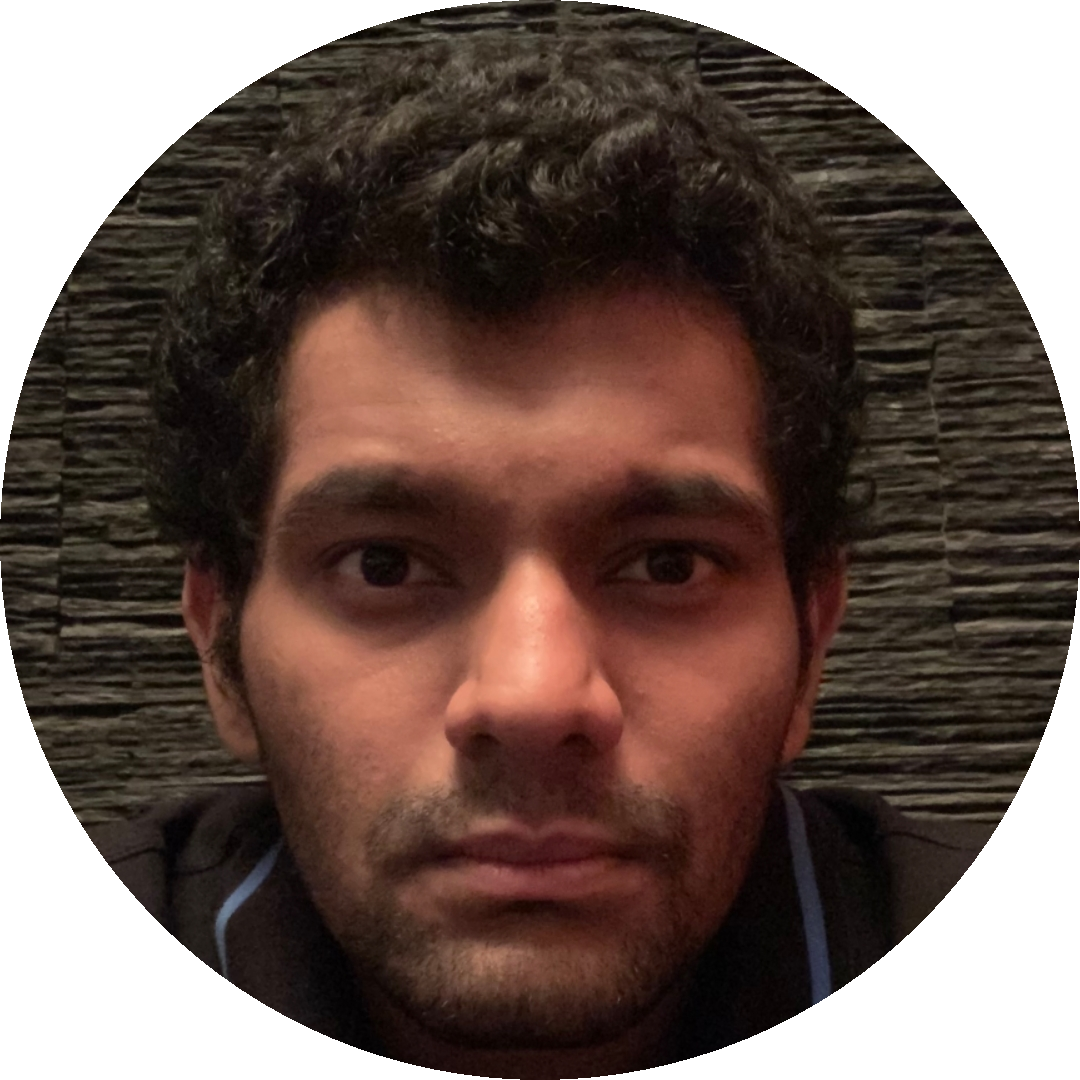
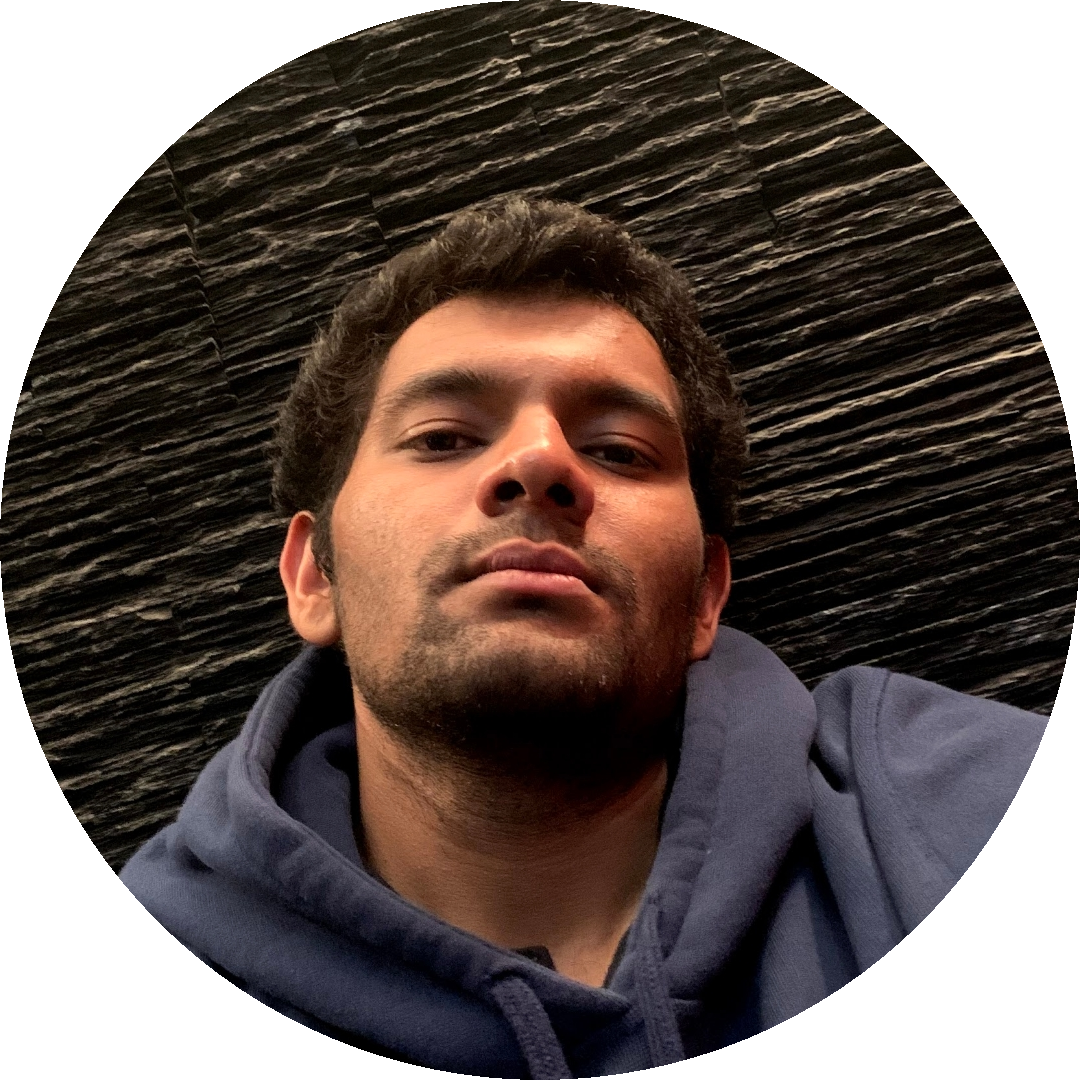
assets folder and content updates

diff --git a/lightindex.html b/lightindex.html
@@ -47,7 +47,7 @@
                 <ul class="vertical-menu scrollspy">
                     <li class="active"><a href="#home"><i class="icon-home"></i>Home</a></li>
                     <li><a href="#about"><i class="icon-user-following"></i>About MDC</a></li>
-                    <li><a href="#services"><i class="icon-briefcase"></i>Fluent in</a></li>
+                    <li><a href="#services"><i class="icon-briefcase"></i>Skills</a></li>
                     <li><a href="#works"><i class="icon-layers"></i>Projects and Workshops</a></li>
                     <li><a href="#blog"><i class="icon-note"></i>Blog</a></li>
                     <li><a href="#contact"><i class="icon-bubbles"></i>Contact</a></li>
@@ -113,77 +113,8 @@
         
                         <div class="col-md-3">
                             <div class="text-center text-md-left">
-                                <!--photo of member -->
-                                <img src="assets/briha.png" alt="brihadeesh" />
-                            </div>
-                            <div class="spacer d-md-none d-lg-none" data-height="30"></div>
-                        </div>
-        
-                        <div class="col-md-9 triangle-left-md triangle-top-sm">
-                            <div class="rounded bg-white shadow-dark padding-30">
-                                <div class="row">
-                                    <div class="col-md-6">
-                                        <!-- about text -->
-                                        <p>Brihadeesh R K, Co-Lead, a 3rd Semester ISE Student from M S Ramaiah Institute of Technology, Bangalore. <br>
-                                            Brihadeesh is a JavaScript and .NET Developer with Certification in: C#, ASP.NET, mySQL, JavaScript Frameworks Such as: 
-                                            Angular, Node, React, React Native and Angular-Redux. <br>
-                                            His Interests Include: Python, Machine Learning and App Development
-                                        </p>
-                                       
-                                        <div class="spacer d-md-none d-lg-none" data-height="30"></div>
-                                    </div>
-                                    <div class="col-md-6">
-                                        <!-- skill item -->
-                                        <div class="skill-item">
-                                            <div class="skill-info clearfix">
-                                                <h4 class="float-left mb-3 mt-0">Web-Development</h4>
-                                                <span class="float-right">80%</span>
-                                            </div>
-                                            <div class="progress">
-                                                <div class="progress-bar data-background" role="progressbar" aria-valuemin="0" aria-valuemax="100" aria-valuenow="80" data-color="#0078D4">
-                                                </div>
-                                            </div>
-                                            <div class="spacer" data-height="20"></div>
-                                        </div>
-        
-                                        <!-- skill item -->
-                                        <div class="skill-item">
-                                            <div class="skill-info clearfix">
-                                                <h4 class="float-left mb-3 mt-0">Mobile and Desktop Applications</h4>
-                                                <span class="float-right">75%</span>
-                                            </div>
-                                            <div class="progress">
-                                                <div class="progress-bar data-background" role="progressbar" aria-valuemin="0" aria-valuemax="100" aria-valuenow="75" data-color="#FF4C60">
-                                                </div>
-                                            </div>
-                                            <div class="spacer" data-height="20"></div>
-                                        </div>
-        
-                                        <!-- skill item -->
-                                        <div class="skill-item">
-                                            <div class="skill-info clearfix">
-                                                <h4 class="float-left mb-3 mt-0">Data Structures</h4>
-                                                <span class="float-right">85%</span>
-                                            </div>
-                                            <div class="progress">
-                                                <div class="progress-bar data-background" role="progressbar" aria-valuemin="0" aria-valuemax="100" aria-valuenow="85" data-color="#6C6CE5">
-                                                </div>
-                                            </div>
-                                        </div>
-                                    </div>
-                                </div>
-                            </div>
-                        </div>
-        
-                    </div>
-                    <div class="spacer" data-height="30"></div>
-                    
-                    <div class="row">
-        
-                        <div class="col-md-3">
-                            <div class="text-center text-md-left">
                                 <!-- avatar image -->
-                                <img src="https://via.placeholder.com/150x150" alt="Bolby" />
+                                <img src="" alt="anushka" />
                             </div>
                             <div class="spacer d-md-none d-lg-none" data-height="30"></div>
                         </div>
@@ -193,9 +124,8 @@
                                 <div class="row">
                                     <div class="col-md-6">
                                         <!-- about text -->
-                                        <p>we are msdc or write some shit like that.
-                                            have one box like this for each core member and ask the core member for their skills
-                                            and ask them how familiar they are and give the percentage accordingly
+                                        <p>Anushka Mittal, Lead, a 3rd Semester ISE Student from M S Ramaiah Institute of Technology, Bangalore. <br>
+                                            
                                         </p>
                                        
                                         <div class="spacer d-md-none d-lg-none" data-height="30"></div>
@@ -250,8 +180,8 @@
         
                         <div class="col-md-3">
                             <div class="text-center text-md-left">
-                                <!-- avatar image -->
-                                <img src="https://via.placeholder.com/150x150" alt="Bolby" />
+                                <!--photo of member -->
+                                <img src="assets/briha.png" alt="brihadeesh" />
                             </div>
                             <div class="spacer d-md-none d-lg-none" data-height="30"></div>
                         </div>
@@ -261,9 +191,76 @@
                                 <div class="row">
                                     <div class="col-md-6">
                                         <!-- about text -->
-                                        <p>we are msdc or write some shit like that.
-                                            have one box like this for each core member and ask the core member for their skills
-                                            and ask them how familiar they are and give the percentage accordingly
+                                        <p>Brihadeesh R K, Core, a 3rd Semester ISE Student from M S Ramaiah Institute of Technology, Bangalore. <br>
+                                            Brihadeesh is a JavaScript and .NET Developer with Certification in: C#, ASP.NET, mySQL, JavaScript Frameworks Such as: 
+                                            Angular, Node, React, React Native and Angular-Redux. <br>
+                                            His Interests Include: Python, Machine Learning and App Development
+                                        </p>
+                                       
+                                        <div class="spacer d-md-none d-lg-none" data-height="30"></div>
+                                    </div>
+                                    <div class="col-md-6">
+                                        <!-- skill item -->
+                                        <div class="skill-item">
+                                            <div class="skill-info clearfix">
+                                                <h4 class="float-left mb-3 mt-0">Web-Development</h4>
+                                                <span class="float-right">80%</span>
+                                            </div>
+                                            <div class="progress">
+                                                <div class="progress-bar data-background" role="progressbar" aria-valuemin="0" aria-valuemax="100" aria-valuenow="80" data-color="#0078D4">
+                                                </div>
+                                            </div>
+                                            <div class="spacer" data-height="20"></div>
+                                        </div>
+        
+                                        <!-- skill item -->
+                                        <div class="skill-item">
+                                            <div class="skill-info clearfix">
+                                                <h4 class="float-left mb-3 mt-0">Mobile and Desktop Applications</h4>
+                                                <span class="float-right">75%</span>
+                                            </div>
+                                            <div class="progress">
+                                                <div class="progress-bar data-background" role="progressbar" aria-valuemin="0" aria-valuemax="100" aria-valuenow="75" data-color="#FF4C60">
+                                                </div>
+                                            </div>
+                                            <div class="spacer" data-height="20"></div>
+                                        </div>
+        
+                                        <!-- skill item -->
+                                        <div class="skill-item">
+                                            <div class="skill-info clearfix">
+                                                <h4 class="float-left mb-3 mt-0">Data Structures</h4>
+                                                <span class="float-right">85%</span>
+                                            </div>
+                                            <div class="progress">
+                                                <div class="progress-bar data-background" role="progressbar" aria-valuemin="0" aria-valuemax="100" aria-valuenow="85" data-color="#6C6CE5">
+                                                </div>
+                                            </div>
+                                        </div>
+                                    </div>
+                                </div>
+                            </div>
+                        </div>
+        
+                    </div>
+                    <div class="spacer" data-height="30"></div>
+
+                    <div class="row">
+        
+                        <div class="col-md-3">
+                            <div class="text-center text-md-left">
+                                <!-- avatar image -->
+                                <img src="" alt="jitesh" />
+                            </div>
+                            <div class="spacer d-md-none d-lg-none" data-height="30"></div>
+                        </div>
+        
+                        <div class="col-md-9 triangle-left-md triangle-top-sm">
+                            <div class="rounded bg-white shadow-dark padding-30">
+                                <div class="row">
+                                    <div class="col-md-6">
+                                        <!-- about text -->
+                                        <p>Jitesh V Kamnani, Core, a 3rd Semester ISE Student from M S Ramaiah Institute of Technology, Bangalore. <br>
                                         </p>
                                        
                                         <div class="spacer d-md-none d-lg-none" data-height="30"></div>
@@ -319,7 +316,7 @@
                         <div class="col-md-3">
                             <div class="text-center text-md-left">
                                 <!-- avatar image -->
-                                <img src="https://via.placeholder.com/150x150" alt="Bolby" />
+                                <img src="" alt="dhrithi" />
                             </div>
                             <div class="spacer d-md-none d-lg-none" data-height="30"></div>
                         </div>
@@ -329,9 +326,7 @@
                                 <div class="row">
                                     <div class="col-md-6">
                                         <!-- about text -->
-                                        <p>we are msdc or write some shit like that.
-                                            have one box like this for each core member and ask the core member for their skills
-                                            and ask them how familiar they are and give the percentage accordingly
+                                        <p>Dhrithi Pai, Core, is a 3rd Semester ISE Student from M S Ramaiah Institute of Technology, Bangalore.
                                         </p>
                                        
                                         <div class="spacer d-md-none d-lg-none" data-height="30"></div>
@@ -387,7 +382,7 @@
                         <div class="col-md-3">
                             <div class="text-center text-md-left">
                                 <!-- avatar image -->
-                                <img src="https://via.placeholder.com/150x150" alt="Bolby" />
+                                <img src="assets/benny.png" alt="benny" />
                             </div>
                             <div class="spacer d-md-none d-lg-none" data-height="30"></div>
                         </div>
@@ -397,9 +392,10 @@
                                 <div class="row">
                                     <div class="col-md-6">
                                         <!-- about text -->
-                                        <p>we are msdc or write some shit like that.
-                                            have one box like this for each core member and ask the core member for their skills
-                                            and ask them how familiar they are and give the percentage accordingly
+                                        <p>Benny Nandha Dharshan G, Core, is a 3rd Semester ISE Student from M S Ramaiah Institute of Technology, Bangalore.
+                                            Benny is skilled in Art and Photography with Experience in Suite Applications such as Premiere Pro, Photoshop, Indesign
+                                             and Illustrator. 
+                                             Some of Benny's Skills are: Designing, Prototype Development, Mobile and Web Application Development.
                                         </p>
                                        
                                         <div class="spacer d-md-none d-lg-none" data-height="30"></div>
@@ -408,7 +404,7 @@
                                         <!-- skill item -->
                                         <div class="skill-item">
                                             <div class="skill-info clearfix">
-                                                <h4 class="float-left mb-3 mt-0">Development</h4>
+                                                <h4 class="float-left mb-3 mt-0">Suite Application Development</h4>
                                                 <span class="float-right">85%</span>
                                             </div>
                                             <div class="progress">
@@ -421,11 +417,11 @@
                                         <!-- skill item -->
                                         <div class="skill-item">
                                             <div class="skill-info clearfix">
-                                                <h4 class="float-left mb-3 mt-0">UI/UX design</h4>
-                                                <span class="float-right">95%</span>
+                                                <h4 class="float-left mb-3 mt-0">Design and Prototype Development</h4>
+                                                <span class="float-right">90%</span>
                                             </div>
                                             <div class="progress">
-                                                <div class="progress-bar data-background" role="progressbar" aria-valuemin="0" aria-valuemax="100" aria-valuenow="95" data-color="#FF4C60">
+                                                <div class="progress-bar data-background" role="progressbar" aria-valuemin="0" aria-valuemax="100" aria-valuenow="90" data-color="#FF4C60">
                                                 </div>
                                             </div>
                                             <div class="spacer" data-height="20"></div>
@@ -434,11 +430,11 @@
                                         <!-- skill item -->
                                         <div class="skill-item">
                                             <div class="skill-info clearfix">
-                                                <h4 class="float-left mb-3 mt-0">Photography</h4>
-                                                <span class="float-right">70%</span>
+                                                <h4 class="float-left mb-3 mt-0">Mobile and Web Application Development</h4>
+                                                <span class="float-right">65%</span>
                                             </div>
                                             <div class="progress">
-                                                <div class="progress-bar data-background" role="progressbar" aria-valuemin="0" aria-valuemax="100" aria-valuenow="70" data-color="#6C6CE5">
+                                                <div class="progress-bar data-background" role="progressbar" aria-valuemin="0" aria-valuemax="100" aria-valuenow="65" data-color="#6C6CE5">
                                                 </div>
                                             </div>
                                         </div>
@@ -500,7 +496,7 @@
 
             <section id="services">
                 <div class="container">
-                    <h2 class="section-title wow fadeInUp">Services</h2>
+                    <h2 class="section-title wow fadeInUp">What We're Good At</h2>
 
                     <div class="spacer" data-height="60"></div>
                 
@@ -510,12 +506,32 @@
                             <!-- specialty box -->
                             <div class="service-box rounded data-background padding-30 text-center text-light shadow-blue" data-color="#6C6CE5">
                                 <img src="https://via.placeholder.com/80x80" alt="UI/UX design" />
-                                <h3 class="mb-3 mt-0">C# Development</h3>
+                                <h3 class="mb-3 mt-0">Web Development</h3>
                                 <p class="mb-0">Lorem ipsum dolor sit amet consectetuer adipiscing elit aenean commodo ligula eget.</p>
                             </div>
                             <div class="spacer d-md-none d-lg-none" data-height="30"></div>
                         </div>
-                        <!-- Copy Lines 167 - 175 for Multiple Specialties -->
+
+                        <div class="col-md-4">
+                            <!-- specialty box -->
+                            <div class="service-box rounded data-background padding-30 text-center text-light shadow-blue" data-color="#6C6CE5">
+                                <img src="https://via.placeholder.com/80x80" alt="UI/UX design" />
+                                <h3 class="mb-3 mt-0">App Development</h3>
+                                <p class="mb-0">Lorem ipsum dolor sit amet consectetuer adipiscing elit aenean commodo ligula eget.</p>
+                            </div>
+                            <div class="spacer d-md-none d-lg-none" data-height="30"></div>
+                        </div>
+
+                        <div class="col-md-4">
+                            <!-- specialty box -->
+                            <div class="service-box rounded data-background padding-30 text-center text-light shadow-blue" data-color="#6C6CE5">
+                                <img src="https://via.placeholder.com/80x80" alt="UI/UX design" />
+                                <h3 class="mb-3 mt-0">Cloud Management</h3>
+                                <p class="mb-0">Lorem ipsum dolor sit amet consectetuer adipiscing elit aenean commodo ligula eget.</p>
+                            </div>
+                            <div class="spacer d-md-none d-lg-none" data-height="30"></div>
+                        </div>
+
                     </div>
 
                     <div class="mt-5 text-center">
